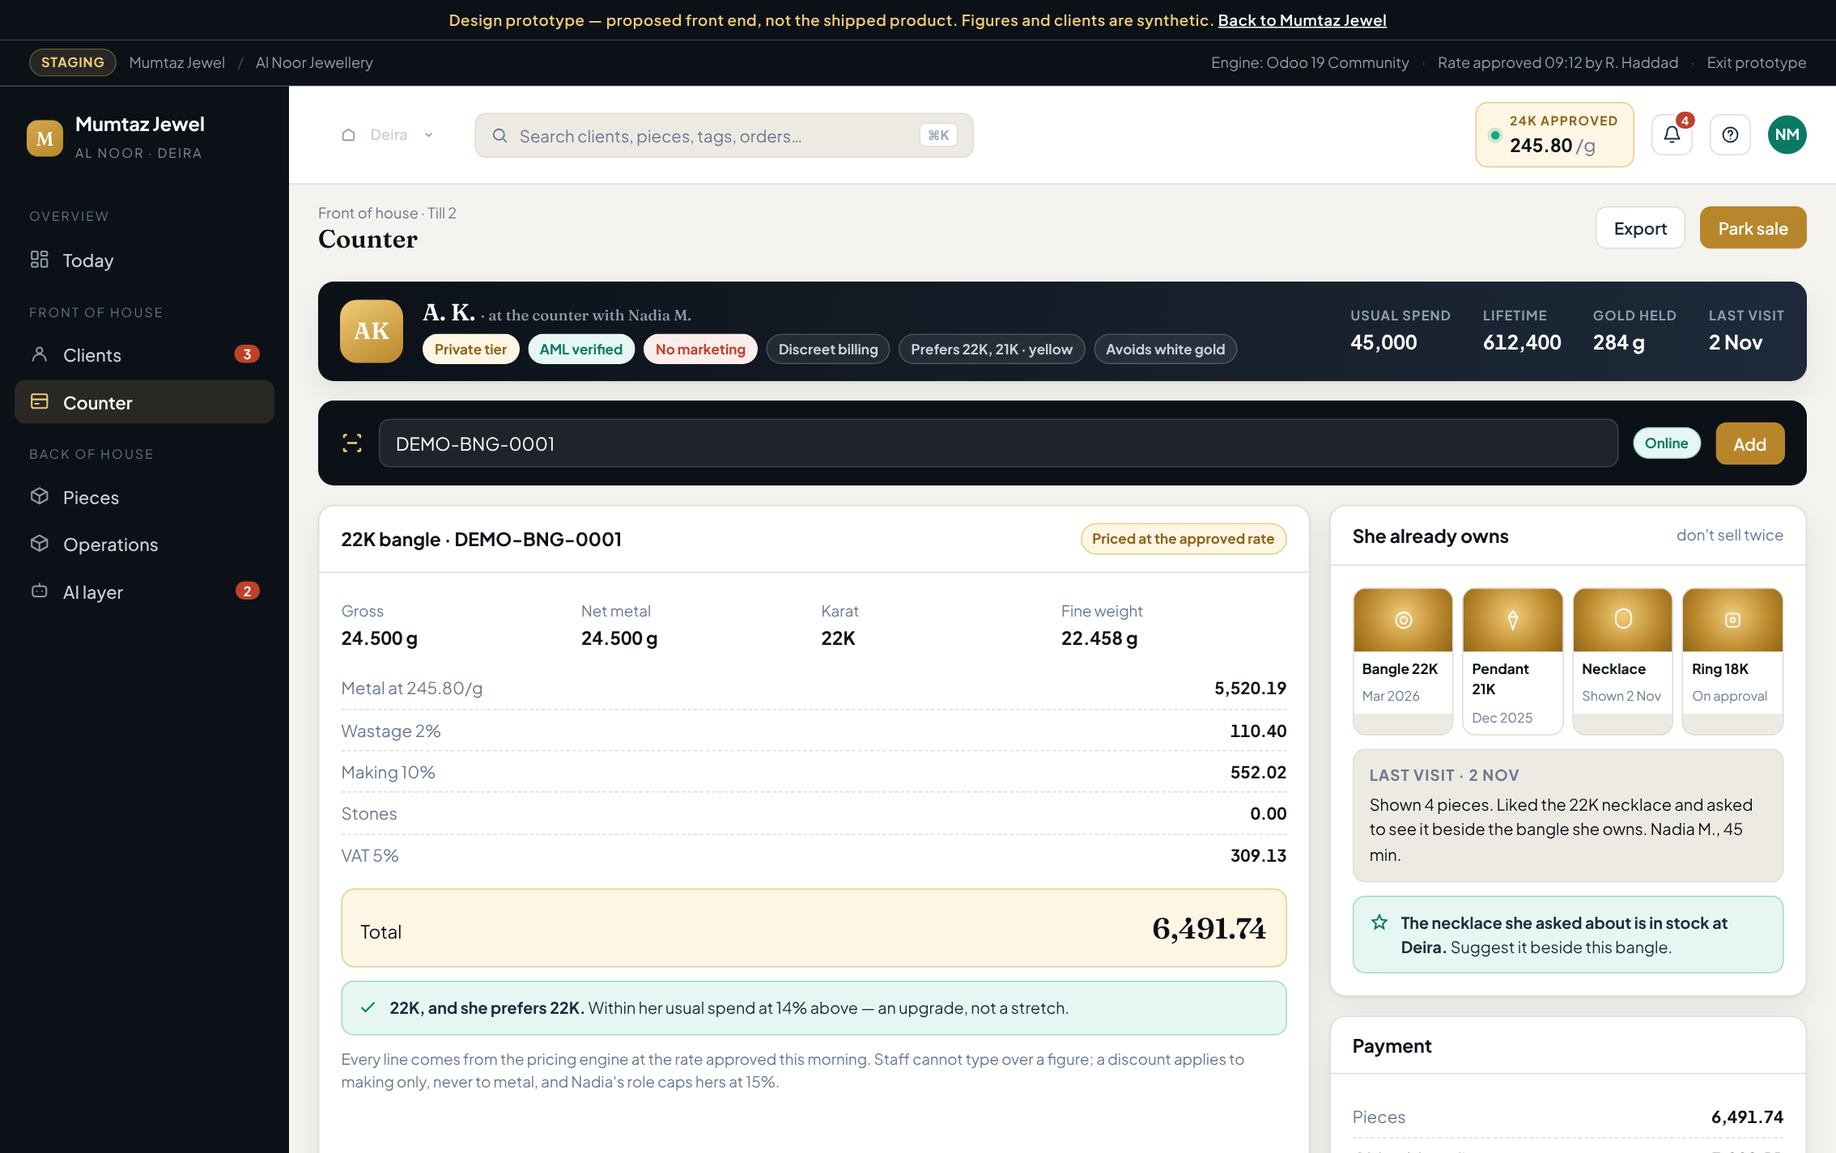
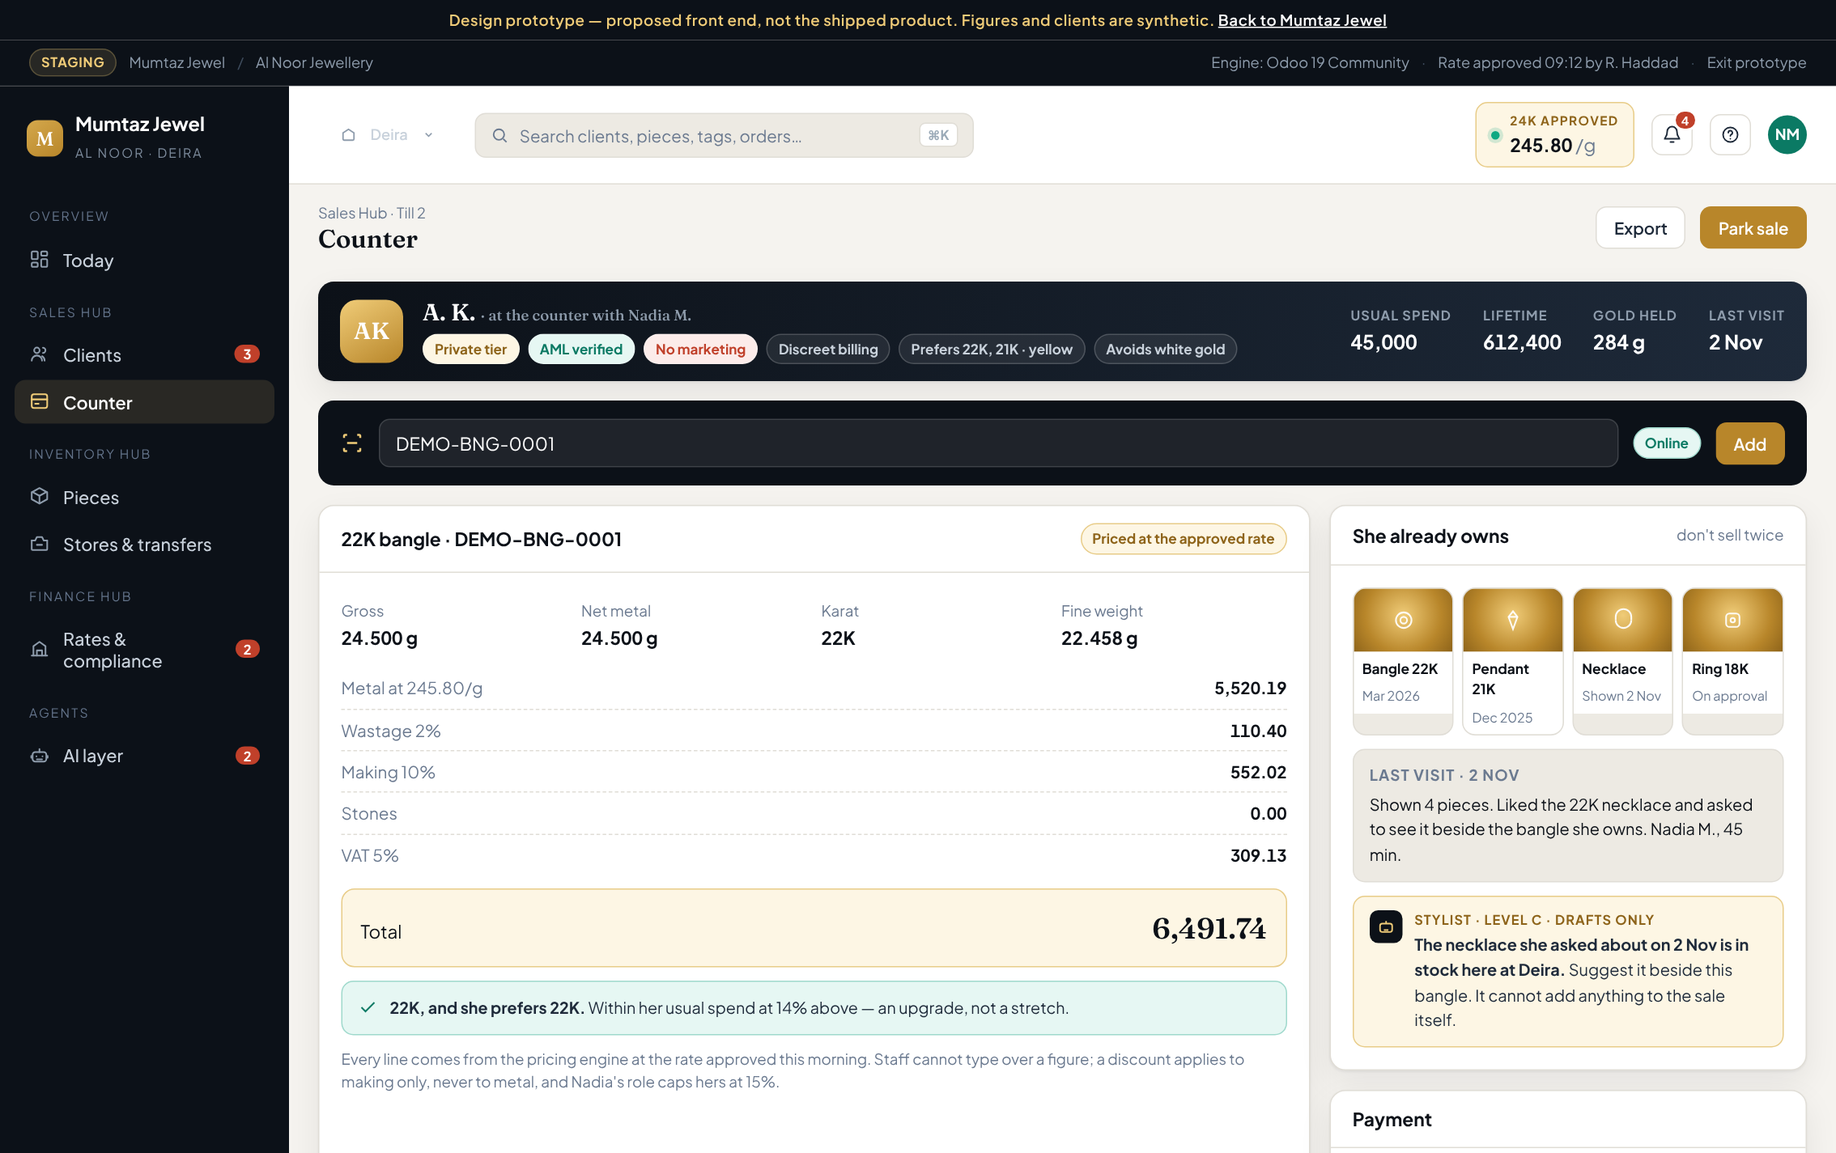
Hubs, agents at work, touchpoints, and a Finance Hub
Three things the prototype was missing.

Named hubs instead of 'front of house' and 'back of house': Overview,
Sales Hub (Clients, Counter), Inventory Hub (Pieces, Stores and transfers),
Finance Hub (Rates and compliance), Agents. Each nav item has its own icon
and each screen its own breadcrumb and primary action.

The agents are now visibly at work rather than parked on one page. A strip
on the client shows Memory updating the file from the 2 Nov visit, Stylist
with a tray built and waiting for Nadia, Relationship with a drafted note
waiting, and Outreach refused because she is Private tier. The counter's
suggestion is now attributed to the Stylist at level C with the line that it
cannot add anything to the sale. The Finance Hub strip says plainly that an
agent approving a rate is prohibited at level E. An agent that is visible
doing nothing it should not is worth more than a page describing its limits.

Touchpoints on the client: the viewing, the tray link she opened twice with
its expiry, the WhatsApp that was read, the call and what was noted — in one
thread, with consent held per channel and per purpose, and the two refusals
shown as refusals.

A Finance Hub screen: rate in force and who approved it, the maker-checker
queue with who entered what and which rule applies, the configured
compliance values with the line that the software applies them and never
invents one, and the metal position with pieces out on approval listed apart
from what is on the shelf.
[…]

diff --git a/website/jewel/preview/index.html b/website/jewel/preview/index.html
@@ -147,6 +147,33 @@ td{padding:11px 18px;border-top:1px solid var(--paper3)}
 .pay{display:grid;grid-template-columns:1fr 1fr;gap:9px;margin-top:12px}
 .paybtn{border:1px solid var(--paper3);background:var(--surface);border-radius:10px;padding:11px;text-align:center;font-size:.84rem;font-weight:600}
 
+/* agents at work */
+.awork{display:flex;gap:9px;align-items:center;flex-wrap:wrap;padding:11px 14px;background:linear-gradient(100deg,var(--ink) 0%,var(--rail2) 100%);border-radius:11px;color:#C9D2DC;font-size:.81rem}
+.awork .lab{display:inline-flex;align-items:center;gap:7px;color:var(--gold3);font-weight:700;font-size:.69rem;letter-spacing:.09em;text-transform:uppercase}
+.awork .lab svg{width:15px;height:15px;stroke:var(--gold3);fill:none;stroke-width:2}
+.arun{display:inline-flex;align-items:center;gap:7px;background:rgba(255,255,255,.06);border:1px solid rgba(255,255,255,.1);border-radius:8px;padding:5px 10px}
+.arun b{color:#fff;font-weight:600}
+.arun .st{font-size:.67rem;font-weight:700;padding:1px 7px;border-radius:999px}
+.st-done{background:rgba(77,196,168,.16);color:var(--teal3)}
+.st-wait{background:rgba(240,204,120,.16);color:var(--gold3)}
+.st-stop{background:rgba(217,99,74,.2);color:#F0A08C}
+.inline-ai{display:flex;gap:10px;align-items:flex-start;padding:11px 13px;background:var(--gold-bg);border:1px solid var(--gold-border);border-radius:10px;font-size:.83rem;color:var(--ink2);margin-top:11px}
+.inline-ai .av{width:27px;height:27px;border-radius:7px;background:var(--ink);display:grid;place-items:center;flex:none}
+.inline-ai .av svg{width:15px;height:15px;stroke:var(--gold3);fill:none;stroke-width:2}
+.inline-ai .by{display:block;font-size:.68rem;letter-spacing:.07em;text-transform:uppercase;color:var(--gold-dark);font-weight:700;margin-bottom:2px}
+/* touchpoints */
+.tp{display:flex;gap:11px;align-items:flex-start;padding:10px 0;border-bottom:1px dashed var(--paper3)}
+.tp:last-of-type{border:0}
+.tpi{width:30px;height:30px;border-radius:8px;display:grid;place-items:center;flex:none;border:1px solid}
+.tpi svg{width:14px;height:14px;fill:none;stroke-width:2;stroke-linecap:round}
+.tp-wa{background:var(--teal-bg);border-color:var(--teal-border)} .tp-wa svg{stroke:var(--teal)}
+.tp-call{background:var(--gold-bg);border-color:var(--gold-border)} .tp-call svg{stroke:var(--gold-dark)}
+.tp-store{background:var(--paper2);border-color:var(--paper3)} .tp-store svg{stroke:var(--ink2)}
+.tp-link{background:var(--coral-bg);border-color:var(--coral-border)} .tp-link svg{stroke:var(--coral)}
+.tp b{display:block;font-size:.85rem}
+.tp span{font-size:.78rem;color:var(--ink3)}
+.consent{display:flex;gap:7px;flex-wrap:wrap;margin-top:11px}
+
 /* enterprise chrome */
 .util{display:flex;align-items:center;gap:10px;padding:0 24px;height:38px;background:var(--rail);color:#8E9CAC;font-size:.76rem;border-bottom:1px solid rgba(255,255,255,.07)}
 .util .env{display:inline-flex;align-items:center;gap:6px;background:rgba(240,204,120,.12);color:var(--gold3);border:1px solid rgba(240,204,120,.26);padding:2px 9px;border-radius:999px;font-weight:700;font-size:.68rem;letter-spacing:.05em}
@@ -272,27 +299,35 @@ td{padding:11px 18px;border-top:1px solid var(--paper3)}
       Today
     </button>
 
-    <div class="railsec">Front of house</div>
+    <div class="railsec">Sales Hub</div>
     <button class="navb" data-s="clients">
-      <svg viewBox="0 0 24 24"><circle cx="12" cy="8" r="3.4"/><path d="M4.5 20a7.5 7.5 0 0115 0"/></svg>
+      <svg viewBox="0 0 24 24"><circle cx="9" cy="8" r="3.2"/><path d="M3 20a6 6 0 0112 0"/><path d="M16 11a3 3 0 100-6M18 20a6 6 0 00-3-5.2"/></svg>
       Clients <span class="pill">3</span>
     </button>
     <button class="navb" data-s="pos">
-      <svg viewBox="0 0 24 24"><rect x="3" y="4" width="18" height="16" rx="2"/><path d="M3 10h18M7 15h4"/></svg>
+      <svg viewBox="0 0 24 24"><rect x="3" y="4" width="18" height="16" rx="2.5"/><path d="M3 10h18M7 15h4"/></svg>
       Counter
     </button>
 
-    <div class="railsec">Back of house</div>
+    <div class="railsec">Inventory Hub</div>
     <button class="navb" data-s="inv">
       <svg viewBox="0 0 24 24"><path d="M12 3l9 5v8l-9 5-9-5V8z"/><path d="M3.5 7.5L12 12l8.5-4.5M12 12v9"/></svg>
       Pieces
     </button>
     <button class="navb" data-s="ops">
-      <svg viewBox="0 0 24 24"><path d="M12 3l9 5v8l-9 5-9-5V8z"/><path d="M12 12l9-4M12 12v9M12 12L3 8"/></svg>
-      Operations
+      <svg viewBox="0 0 24 24"><path d="M3 9h4l2-4h6l2 4h4"/><path d="M3 9v10a1 1 0 001 1h16a1 1 0 001-1V9"/><path d="M9 14h6"/></svg>
+      Stores &amp; transfers
     </button>
+
+    <div class="railsec">Finance Hub</div>
+    <button class="navb" data-s="fin">
+      <svg viewBox="0 0 24 24"><path d="M3 20h18"/><path d="M5 20V9l7-5 7 5v11"/><path d="M9 20v-6h6v6"/></svg>
+      Rates &amp; compliance <span class="pill">2</span>
+    </button>
+
+    <div class="railsec">Agents</div>
     <button class="navb" data-s="agents">
-      <svg viewBox="0 0 24 24"><rect x="4" y="7" width="16" height="12" rx="3"/><path d="M12 7V4M9 13h.01M15 13h.01"/></svg>
+      <svg viewBox="0 0 24 24"><rect x="4" y="8" width="16" height="11" rx="3"/><path d="M12 8V4.5M8.5 13h.01M15.5 13h.01M9 16.5h6"/><path d="M2.5 12.5v2M21.5 12.5v2"/></svg>
       AI layer <span class="pill">2</span>
     </button>
 
@@ -450,6 +485,14 @@ td{padding:11px 18px;border-top:1px solid var(--paper3)}
           </div>
         </div>
 
+        <div class="awork" style="margin-bottom:16px">
+          <span class="lab"><svg viewBox="0 0 24 24"><rect x="4" y="8" width="16" height="11" rx="3"/><path d="M12 8V4.5M8.5 13h.01M15.5 13h.01M9 16.5h6"/></svg> Agents on this client</span>
+          <span class="arun"><b>Memory</b> updated the file from the 2 Nov visit <span class="st st-done">done 09:04</span></span>
+          <span class="arun"><b>Stylist</b> built a 4-piece tray <span class="st st-wait">waiting for Nadia</span></span>
+          <span class="arun"><b>Relationship</b> drafted the wedding note <span class="st st-wait">waiting for Nadia</span></span>
+          <span class="arun"><b>Outreach</b> refused — Private tier <span class="st st-stop">blocked</span></span>
+        </div>
+
         <div class="g split">
           <div class="g" style="gap:16px">
 
@@ -463,6 +506,27 @@ td{padding:11px 18px;border-top:1px solid var(--paper3)}
                   <div class="pc"><div class="im"><svg viewBox="0 0 24 24"><rect x="6" y="6" width="12" height="12" rx="3"/><circle cx="12" cy="12" r="2"/></svg></div><div class="lb"><b>Ring 18K</b><span>On approval</span></div></div>
                 </div>
                 <p class="note">Photographs are taken when a piece is handed over or returned, so the file shows what she already owns before anyone suggests something similar.</p>
+              </div>
+            </div>
+
+            <div class="card">
+              <div class="hd"><h3>Touchpoints</h3><span class="sp"></span><span class="chip c-grey">every channel, one thread</span></div>
+              <div class="pad">
+                <div class="tp"><span class="tpi tp-store"><svg viewBox="0 0 24 24"><path d="M3 9l9-6 9 6v10a2 2 0 01-2 2H5a2 2 0 01-2-2z"/></svg></span>
+                  <div><b>Private viewing &middot; Deira</b><span>2 Nov &middot; Nadia M. &middot; 45 min &middot; 4 pieces shown</span></div></div>
+                <div class="tp"><span class="tpi tp-link"><svg viewBox="0 0 24 24"><path d="M10 13a5 5 0 007 0l2-2a5 5 0 00-7-7l-1 1"/><path d="M14 11a5 5 0 00-7 0l-2 2a5 5 0 007 7l1-1"/></svg></span>
+                  <div><b>Tray link opened &middot; twice</b><span>1 Nov &middot; expires in 5 days &middot; revocable &middot; liked 2, asked about 1</span></div></div>
+                <div class="tp"><span class="tpi tp-wa"><svg viewBox="0 0 24 24"><path d="M21 11.5a8.5 8.5 0 01-12.6 7.4L3 21l2.2-5.2A8.5 8.5 0 1121 11.5z"/></svg></span>
+                  <div><b>WhatsApp &middot; repair ready</b><span>18 Oct &middot; sent by Nadia M. &middot; read &middot; consent on file</span></div></div>
+                <div class="tp"><span class="tpi tp-call"><svg viewBox="0 0 24 24"><path d="M5 4h4l2 5-2.5 1.5a11 11 0 005 5L15 13l5 2v4a2 2 0 01-2 2A16 16 0 013 6a2 2 0 012-2z"/></svg></span>
+                  <div><b>Call &middot; 6 min</b><span>14 Mar &middot; after the bangle purchase &middot; noted: wants matching pendant</span></div></div>
+                <div class="consent">
+                  <span class="chip c-teal">WhatsApp &middot; consented</span>
+                  <span class="chip c-teal">Calls &middot; consented</span>
+                  <span class="chip c-coral">Marketing &middot; refused</span>
+                  <span class="chip c-coral">Automated outbound &middot; blocked, Private tier</span>
+                </div>
+                <p class="note">Consent is held per channel and per purpose. An agent may draft on any of them; none may send to this client, because she is Private tier and has refused marketing.</p>
               </div>
             </div>
 
@@ -604,9 +668,11 @@ td{padding:11px 18px;border-top:1px solid var(--paper3)}
                   <b>Last visit · 2 Nov</b>
                   Shown 4 pieces. Liked the 22K necklace and asked to see it beside the bangle she owns. Nadia M., 45 min.
                 </div>
-                <div class="ok">
-                  <svg viewBox="0 0 24 24"><path d="M12 3l2.6 5.6 6 .8-4.4 4.2 1.1 6L12 15.9 6.7 19.6l1.1-6L3.4 9.4l6-.8z"/></svg>
-                  <div><b>The necklace she asked about is in stock at Deira.</b> Suggest it beside this bangle.</div>
+                <div class="inline-ai">
+                  <span class="av"><svg viewBox="0 0 24 24"><rect x="4" y="8" width="16" height="11" rx="3"/><path d="M12 8V4.5M8.5 13h.01M15.5 13h.01M9 16.5h6"/></svg></span>
+                  <div><span class="by">Stylist &middot; level C &middot; drafts only</span>
+                  <b>The necklace she asked about on 2 Nov is in stock here at Deira.</b>
+                  Suggest it beside this bangle. It cannot add anything to the sale itself.</div>
                 </div>
               </div>
             </div>
@@ -676,6 +742,78 @@ td{padding:11px 18px;border-top:1px solid var(--paper3)}
               <div class="hd"><h3>Transfers in flight</h3></div>
               <div class="store"><span class="chip c-gold">In transit</span><div style="flex:1"><b>Deira → Marina</b><div class="tiny muted">3 pieces · 214 g · sent 09:40</div></div></div>
               <div class="store"><span class="chip c-coral">Not received</span><div style="flex:1"><b>Sharjah → Deira</b><div class="tiny muted">1 piece · 38 g · sent yesterday</div></div></div>
+            </div>
+          </div>
+        </div>
+      </section>
+
+<!-- ============ FINANCE HUB ============ -->
+      <section class="screen" id="s-fin">
+        <div class="g g4" style="margin-bottom:16px">
+          <div class="card kpi"><small>Rate in force</small><b class="num">245.80</b><div class="d muted">approved 09:12 &middot; N. Mansour</div></div>
+          <div class="card kpi"><small>Awaiting a second person</small><b class="num">2</b><div class="d down">1 rate &middot; 1 exchange</div></div>
+          <div class="card kpi"><small>Metal exposure</small><b class="num">2.91 M</b><div class="d up">11.84 kg fine</div></div>
+          <div class="card kpi"><small>VAT this period</small><b class="num">41,208</b><div class="d muted">5% &middot; UAE &middot; confirmed</div></div>
+        </div>
+
+        <div class="awork" style="margin-bottom:16px">
+          <span class="lab"><svg viewBox="0 0 24 24"><rect x="4" y="8" width="16" height="11" rx="3"/><path d="M12 8V4.5M8.5 13h.01M15.5 13h.01M9 16.5h6"/></svg> Agents in the Finance Hub</span>
+          <span class="arun"><b>Owner analyst</b> reconciled 3 stores <span class="st st-done">done 06:00</span></span>
+          <span class="arun"><b>Owner analyst</b> flagged Marina &minus;2.4 g <span class="st st-wait">waiting for a person</span></span>
+          <span class="arun"><b>Any agent</b> approving a rate <span class="st st-stop">prohibited &middot; level E</span></span>
+        </div>
+
+        <div class="g split">
+          <div class="card">
+            <div class="hd"><h3>Maker-checker queue</h3><span class="sp"></span><span class="chip c-gold">2 waiting</span></div>
+            <table>
+              <thead><tr><th>Item</th><th>Entered by</th><th>Value</th><th>Rule</th><th></th></tr></thead>
+              <tbody>
+                <tr><td><b>Gold rate 246.40/g</b><div class="tiny muted">24K &middot; effective 18:00</div></td>
+                    <td>R. Haddad<div class="tiny muted">08:51</div></td><td class="num">&mdash;</td>
+                    <td class="tiny muted">A different manager must approve</td>
+                    <td><button class="btn b-gold" style="padding:5px 12px;font-size:.78rem">Review</button></td></tr>
+                <tr><td><b>OGX/00042</b><div class="tiny muted">18.4 g at 21K &middot; Marina</div></td>
+                    <td>S. Iqbal<div class="tiny muted">10:22</div></td><td class="num">8,410</td>
+                    <td class="tiny muted">Over the 5,000 threshold</td>
+                    <td><button class="btn b-gold" style="padding:5px 12px;font-size:.78rem">Approve</button></td></tr>
+                <tr><td><b>Gold rate 245.80/g</b><div class="tiny muted">in force now</div></td>
+                    <td>R. Haddad<div class="tiny muted">08:44</div></td><td class="num">&mdash;</td>
+                    <td class="tiny muted">Approved 09:12 by N. Mansour</td>
+                    <td><span class="chip c-teal">Approved</span></td></tr>
+              </tbody>
+            </table>
+            <div class="pad" style="border-top:1px solid var(--paper3)">
+              <p class="note" style="margin:0">Nobody approves what they entered, and the state cannot be written around these buttons &mdash; not by a manager, not by system code, not by an agent. The rate in force stays in force until a second person signs the next one.</p>
+            </div>
+          </div>
+
+          <div class="g" style="gap:16px">
+            <div class="card">
+              <div class="hd"><h3>Compliance</h3><span class="sp"></span><span class="chip c-gold">configuration</span></div>
+              <div class="pad">
+                <div class="amlrow"><span class="muted">VAT rate</span><b>5% &middot; UAE</b></div>
+                <div class="amlrow"><span class="muted">Cash reporting threshold</span><b class="num">55,000</b></div>
+                <div class="amlrow"><span class="muted">Exchange second approval</span><b class="num">5,000</b></div>
+                <div class="amlrow"><span class="muted">Screening cadence</span><b>12 months</b></div>
+                <div class="amlrow"><span class="muted">Record retention</span><b>5 years</b></div>
+                <div class="warn">
+                  <svg viewBox="0 0 24 24"><path d="M12 9v4M12 17h.01"/><path d="M10.3 3.9L1.8 18a2 2 0 001.7 3h17a2 2 0 001.7-3L13.7 3.9a2 2 0 00-3.4 0z"/></svg>
+                  <div><b>2 clients are within 20% of the cash threshold this year.</b> Both are flagged at the till before payment, not in a report next month.</div>
+                </div>
+                <p class="note">Every value here is set by the named finance manager, per country, and dated. The software applies them and never invents one.</p>
+              </div>
+            </div>
+
+            <div class="card">
+              <div class="hd"><h3>Metal position</h3></div>
+              <div class="pad">
+                <div class="amlrow"><span class="muted">On the shelf</span><b class="num">11.84 kg</b></div>
+                <div class="amlrow"><span class="muted">Out on approval</span><b class="num">0.21 kg</b></div>
+                <div class="amlrow"><span class="muted">In transit</span><b class="num">0.13 kg</b></div>
+                <div class="amlrow"><span class="muted">Taken in today</span><b class="num">+0.07 kg</b></div>
+                <p class="note" style="margin-top:10px">Pieces out on approval are listed apart: they are on your book but not on your shelf.</p>
+              </div>
             </div>
           </div>
         </div>
@@ -786,11 +924,12 @@ td{padding:11px 18px;border-top:1px solid var(--paper3)}
 (function(){
   var titles = {
     dash:    ['Today','Owner · Overview','Refresh'],
-    clients: ['Client 360','Front of house · Clients','New client'],
-    pos:     ['Counter','Front of house · Till 2','Park sale'],
-    inv:     ['Pieces','Back of house · Inventory','Add piece'],
-    ops:     ['Operations','Back of house · Stores and stock','New transfer'],
-    agents:  ['AI layer','Back of house · Agents','Agent settings']
+    clients: ['Client 360','Sales Hub · Clients','New client'],
+    pos:     ['Counter','Sales Hub · Till 2','Park sale'],
+    inv:     ['Pieces','Inventory Hub · Stock book','Add piece'],
+    ops:     ['Stores & transfers','Inventory Hub · Operations','New transfer'],
+    fin:     ['Rates & compliance','Finance Hub · Controls','Enter rate'],
+    agents:  ['AI layer','Agents · Runs and approvals','Agent settings']
   };
   var btns = document.querySelectorAll('.navb');
   btns.forEach(function(b){

diff --git a/website/jewel/index.html b/website/jewel/index.html
@@ -356,13 +356,18 @@ footer{border-top:1px solid var(--paper3);padding:34px 0 48px;color:var(--ink3);
         <a href="preview/#clients"><img src="site/img/ui-clients.png" loading="lazy" width="2160" height="1350"
              alt="Client 360 screen: client header with tier and AML status, pieces owned as photographs, a visit timeline, a compliance panel and taste and occasions."></a>
         <div class="cap">
-          <b>Client 360</b>
+          <b>Client 360, with the agents visibly at work</b>
           <span>Everything about one client on one screen: tier and relationship
           manager, lifetime value and gold held, the pieces she owns as
           photographs taken at handover, every visit with who served her and
           what was shown, her taste and her next occasion — and a compliance
           panel with identity, expiry, screening, risk band and how close the
-          year's cash is to the reporting threshold.</span>
+          year's cash is to the reporting threshold. A strip across the top
+          shows what each agent did on this client and where it stopped —
+          including Outreach refused, because she is Private tier. Below,
+          every touchpoint in one thread: the viewing, the tray link she
+          opened twice, the WhatsApp, the call — each with the consent that
+          allows it.</span>
         </div>
       </div>
 
@@ -413,6 +418,17 @@ footer{border-top:1px solid var(--paper3);padding:34px 0 48px;color:var(--ink3);
           <span>Metal held, stock value at today's rate, and the daily
           reconciliation in grams per store — with a 2.4 g shortfall at one
           store flagged and held open until someone explains it.</span>
+        </div>
+      </div>
+      <div class="shot">
+        <a href="preview/#fin"><img src="site/img/ui-fin.png" loading="lazy" width="2268" height="1425"
+             alt="Finance Hub: rate in force, items awaiting a second person, metal exposure, VAT, a maker-checker queue and a compliance panel of configured thresholds."></a>
+        <div class="cap">
+          <b>Finance Hub</b>
+          <span>The maker-checker queue in one place — who entered what, what
+          it is worth, which rule applies — beside the compliance values your
+          finance manager sets per country. The agent strip here reads
+          "approving a rate: prohibited".</span>
         </div>
       </div>
       <div class="shot">
